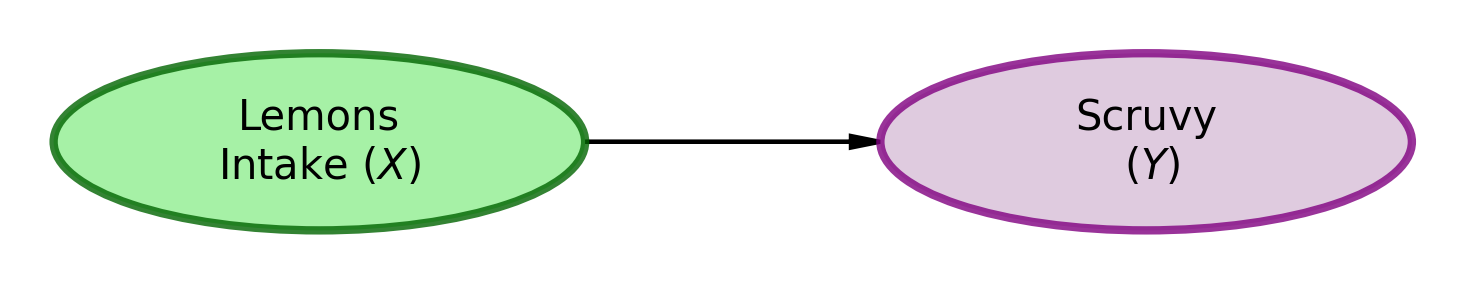
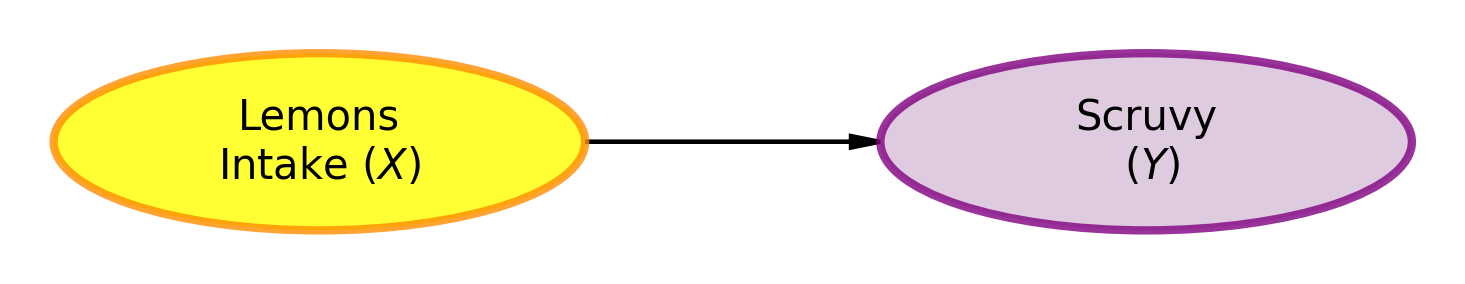
DAFT Package Challenge

Changed region(s): [[0.0307, 0.169, 0.43, 0.8451]]

diff --git a/index.html b/index.html
@@ -205,37 +205,30 @@ Ready to create beautiful DAGs!</code></pre>
 <p><strong>Your Task:</strong> Recreate this DAG showing the relationship between lemons and scurvy prevention.</p>
 <p><strong>Reference Image:</strong> <img src="https://raw.githubusercontent.com/flyaflya/persuasive/642288ea5f79050c05801c3d127084ac0f361a01/images/scurvy2.png" class="img-fluid"></p>
 <div id="cell-dag-1-1747" class="cell" data-execution_count="2">
-<div class="code-copy-outer-scaffold"><div class="sourceCode cell-code" id="cb3"><pre class="sourceCode python code-with-copy"><code class="sourceCode python"><span id="cb3-1"><a href="#cb3-1" aria-hidden="true" tabindex="-1"></a><span class="co"># </span><span class="al">TODO</span><span class="co">: Replace this placeholder with your DAFT code</span></span>
-<span id="cb3-2"><a href="#cb3-2" aria-hidden="true" tabindex="-1"></a><span class="co"># Create a DAG showing the 1747 understanding: Lemons → Scurvy Prevention</span></span>
+<div class="code-copy-outer-scaffold"><div class="sourceCode cell-code" id="cb3"><pre class="sourceCode python code-with-copy"><code class="sourceCode python"><span id="cb3-1"><a href="#cb3-1" aria-hidden="true" tabindex="-1"></a><span class="im">import</span> daft</span>
+<span id="cb3-2"><a href="#cb3-2" aria-hidden="true" tabindex="-1"></a><span class="im">import</span> matplotlib.pyplot <span class="im">as</span> plt</span>
 <span id="cb3-3"><a href="#cb3-3" aria-hidden="true" tabindex="-1"></a></span>
-<span id="cb3-4"><a href="#cb3-4" aria-hidden="true" tabindex="-1"></a><span class="co"># Your code here - recreate the DAG from the reference image</span></span>
-<span id="cb3-5"><a href="#cb3-5" aria-hidden="true" tabindex="-1"></a><span class="co"># Use DAFT to create nodes and edges that match the visual structure</span></span>
-<span id="cb3-6"><a href="#cb3-6" aria-hidden="true" tabindex="-1"></a><span class="co"># Customize colors and styling to make it professional</span></span>
-<span id="cb3-7"><a href="#cb3-7" aria-hidden="true" tabindex="-1"></a></span>
-<span id="cb3-8"><a href="#cb3-8" aria-hidden="true" tabindex="-1"></a><span class="im">import</span> daft</span>
-<span id="cb3-9"><a href="#cb3-9" aria-hidden="true" tabindex="-1"></a><span class="im">import</span> matplotlib.pyplot <span class="im">as</span> plt</span>
-<span id="cb3-10"><a href="#cb3-10" aria-hidden="true" tabindex="-1"></a></span>
-<span id="cb3-11"><a href="#cb3-11" aria-hidden="true" tabindex="-1"></a><span class="co"># Create a PGM object</span></span>
-<span id="cb3-12"><a href="#cb3-12" aria-hidden="true" tabindex="-1"></a>pgm <span class="op">=</span> daft.PGM(dpi<span class="op">=</span><span class="dv">150</span>, alternate_style<span class="op">=</span><span class="st">"outer"</span>)</span>
-<span id="cb3-13"><a href="#cb3-13" aria-hidden="true" tabindex="-1"></a></span>
-<span id="cb3-14"><a href="#cb3-14" aria-hidden="true" tabindex="-1"></a><span class="co"># Example of a professionally styled node</span></span>
-<span id="cb3-15"><a href="#cb3-15" aria-hidden="true" tabindex="-1"></a>pgm.add_node(<span class="st">"Lemons"</span>, <span class="st">"Lemons</span><span class="ch">\n</span><span class="st">Intake"</span> <span class="op">+</span> <span class="vs">r" </span><span class="dv">$</span><span class="kw">(</span><span class="vs">X</span><span class="kw">)</span><span class="dv">$</span><span class="vs">"</span>, <span class="dv">1</span>, <span class="dv">1</span>, aspect <span class="op">=</span> <span class="dv">3</span>, scale <span class="op">=</span> <span class="fl">1.5</span>,</span>
+<span id="cb3-4"><a href="#cb3-4" aria-hidden="true" tabindex="-1"></a><span class="co"># Create a PGM object</span></span>
+<span id="cb3-5"><a href="#cb3-5" aria-hidden="true" tabindex="-1"></a>pgm <span class="op">=</span> daft.PGM(dpi<span class="op">=</span><span class="dv">150</span>, alternate_style<span class="op">=</span><span class="st">"outer"</span>)</span>
+<span id="cb3-6"><a href="#cb3-6" aria-hidden="true" tabindex="-1"></a></span>
+<span id="cb3-7"><a href="#cb3-7" aria-hidden="true" tabindex="-1"></a><span class="co"># Example of a professionally styled node</span></span>
+<span id="cb3-8"><a href="#cb3-8" aria-hidden="true" tabindex="-1"></a>pgm.add_node(<span class="st">"Lemons"</span>, <span class="st">"Lemons</span><span class="ch">\n</span><span class="st">Intake"</span> <span class="op">+</span> <span class="vs">r" </span><span class="dv">$</span><span class="kw">(</span><span class="vs">X</span><span class="kw">)</span><span class="dv">$</span><span class="vs">"</span>, <span class="dv">1</span>, <span class="dv">1</span>, aspect <span class="op">=</span> <span class="dv">3</span>, scale <span class="op">=</span> <span class="fl">1.5</span>,</span>
+<span id="cb3-9"><a href="#cb3-9" aria-hidden="true" tabindex="-1"></a>             plot_params<span class="op">=</span>{</span>
+<span id="cb3-10"><a href="#cb3-10" aria-hidden="true" tabindex="-1"></a>                 <span class="st">'facecolor'</span>: <span class="st">'yellow'</span>, </span>
+<span id="cb3-11"><a href="#cb3-11" aria-hidden="true" tabindex="-1"></a>                 <span class="st">'edgecolor'</span>: <span class="st">'#ff8c00'</span>, </span>
+<span id="cb3-12"><a href="#cb3-12" aria-hidden="true" tabindex="-1"></a>                 <span class="st">'linewidth'</span>: <span class="dv">2</span>,</span>
+<span id="cb3-13"><a href="#cb3-13" aria-hidden="true" tabindex="-1"></a>                 <span class="st">'alpha'</span>: <span class="fl">0.8</span>,</span>
+<span id="cb3-14"><a href="#cb3-14" aria-hidden="true" tabindex="-1"></a>             })</span>
+<span id="cb3-15"><a href="#cb3-15" aria-hidden="true" tabindex="-1"></a>pgm.add_node(<span class="st">"Scruvy"</span>, <span class="st">"Scruvy</span><span class="ch">\n</span><span class="st">"</span><span class="op">+</span><span class="vs">r" </span><span class="dv">$</span><span class="kw">(</span><span class="vs">Y</span><span class="kw">)</span><span class="dv">$</span><span class="vs">"</span>, <span class="fl">4.5</span>, <span class="dv">1</span>, aspect <span class="op">=</span> <span class="dv">3</span>, scale <span class="op">=</span> <span class="fl">1.5</span>,</span>
 <span id="cb3-16"><a href="#cb3-16" aria-hidden="true" tabindex="-1"></a>             plot_params<span class="op">=</span>{</span>
-<span id="cb3-17"><a href="#cb3-17" aria-hidden="true" tabindex="-1"></a>                 <span class="st">'facecolor'</span>: <span class="st">'lightgreen'</span>, </span>
-<span id="cb3-18"><a href="#cb3-18" aria-hidden="true" tabindex="-1"></a>                 <span class="st">'edgecolor'</span>: <span class="st">'darkgreen'</span>, </span>
+<span id="cb3-17"><a href="#cb3-17" aria-hidden="true" tabindex="-1"></a>                 <span class="st">'facecolor'</span>: <span class="st">'thistle'</span>, </span>
+<span id="cb3-18"><a href="#cb3-18" aria-hidden="true" tabindex="-1"></a>                 <span class="st">'edgecolor'</span>: <span class="st">'purple'</span>, </span>
 <span id="cb3-19"><a href="#cb3-19" aria-hidden="true" tabindex="-1"></a>                 <span class="st">'linewidth'</span>: <span class="dv">2</span>,</span>
 <span id="cb3-20"><a href="#cb3-20" aria-hidden="true" tabindex="-1"></a>                 <span class="st">'alpha'</span>: <span class="fl">0.8</span>,</span>
 <span id="cb3-21"><a href="#cb3-21" aria-hidden="true" tabindex="-1"></a>             })</span>
-<span id="cb3-22"><a href="#cb3-22" aria-hidden="true" tabindex="-1"></a>pgm.add_node(<span class="st">"Scruvy"</span>, <span class="st">"Scruvy</span><span class="ch">\n</span><span class="st">"</span><span class="op">+</span><span class="vs">r" </span><span class="dv">$</span><span class="kw">(</span><span class="vs">Y</span><span class="kw">)</span><span class="dv">$</span><span class="vs">"</span>, <span class="fl">4.5</span>, <span class="dv">1</span>, aspect <span class="op">=</span> <span class="dv">3</span>, scale <span class="op">=</span> <span class="fl">1.5</span>,</span>
-<span id="cb3-23"><a href="#cb3-23" aria-hidden="true" tabindex="-1"></a>             plot_params<span class="op">=</span>{</span>
-<span id="cb3-24"><a href="#cb3-24" aria-hidden="true" tabindex="-1"></a>                 <span class="st">'facecolor'</span>: <span class="st">'thistle'</span>, </span>
-<span id="cb3-25"><a href="#cb3-25" aria-hidden="true" tabindex="-1"></a>                 <span class="st">'edgecolor'</span>: <span class="st">'purple'</span>, </span>
-<span id="cb3-26"><a href="#cb3-26" aria-hidden="true" tabindex="-1"></a>                 <span class="st">'linewidth'</span>: <span class="dv">2</span>,</span>
-<span id="cb3-27"><a href="#cb3-27" aria-hidden="true" tabindex="-1"></a>                 <span class="st">'alpha'</span>: <span class="fl">0.8</span>,</span>
-<span id="cb3-28"><a href="#cb3-28" aria-hidden="true" tabindex="-1"></a>             })</span>
-<span id="cb3-29"><a href="#cb3-29" aria-hidden="true" tabindex="-1"></a>pgm.add_edge(<span class="st">"Lemons"</span>, <span class="st">"Scruvy"</span>)</span>
-<span id="cb3-30"><a href="#cb3-30" aria-hidden="true" tabindex="-1"></a></span>
-<span id="cb3-31"><a href="#cb3-31" aria-hidden="true" tabindex="-1"></a>pgm.render()</span></code></pre></div><button title="Copy to Clipboard" class="code-copy-button"><i class="bi"></i></button></div>
+<span id="cb3-22"><a href="#cb3-22" aria-hidden="true" tabindex="-1"></a>pgm.add_edge(<span class="st">"Lemons"</span>, <span class="st">"Scruvy"</span>)</span>
+<span id="cb3-23"><a href="#cb3-23" aria-hidden="true" tabindex="-1"></a></span>
+<span id="cb3-24"><a href="#cb3-24" aria-hidden="true" tabindex="-1"></a>pgm.render()</span></code></pre></div><button title="Copy to Clipboard" class="code-copy-button"><i class="bi"></i></button></div>
 <div class="cell-output cell-output-display">
 <div>
 <figure class="figure">
@@ -264,45 +257,38 @@ Ready to create beautiful DAGs!</code></pre>
 <p><strong>Your Task:</strong> Recreate this DAG showing the incorrect understanding of the data generating process.</p>
 <p><strong>Reference Image:</strong> <img src="https://raw.githubusercontent.com/flyaflya/persuasive/8aaffd0a3c967d0a26f506232f998130847be3e8/images/scurvy.png" class="img-fluid"></p>
 <div id="cell-dag-2-misguided" class="cell" data-execution_count="3">
-<div class="code-copy-outer-scaffold"><div class="sourceCode cell-code" id="cb4"><pre class="sourceCode python code-with-copy"><code class="sourceCode python"><span id="cb4-1"><a href="#cb4-1" aria-hidden="true" tabindex="-1"></a><span class="co"># </span><span class="al">TODO</span><span class="co">: Replace this placeholder with your DAFT code</span></span>
-<span id="cb4-2"><a href="#cb4-2" aria-hidden="true" tabindex="-1"></a><span class="co"># Create a DAG showing the misguided belief: Acid → Bacteria Death → Scurvy Prevention</span></span>
+<div class="code-copy-outer-scaffold"><div class="sourceCode cell-code" id="cb4"><pre class="sourceCode python code-with-copy"><code class="sourceCode python"><span id="cb4-1"><a href="#cb4-1" aria-hidden="true" tabindex="-1"></a><span class="im">import</span> daft</span>
+<span id="cb4-2"><a href="#cb4-2" aria-hidden="true" tabindex="-1"></a><span class="im">import</span> matplotlib.pyplot <span class="im">as</span> plt</span>
 <span id="cb4-3"><a href="#cb4-3" aria-hidden="true" tabindex="-1"></a></span>
-<span id="cb4-4"><a href="#cb4-4" aria-hidden="true" tabindex="-1"></a><span class="co"># Your code here - recreate the DAG from the reference image</span></span>
-<span id="cb4-5"><a href="#cb4-5" aria-hidden="true" tabindex="-1"></a><span class="co"># This DAG should show the incorrect causal chain</span></span>
-<span id="cb4-6"><a href="#cb4-6" aria-hidden="true" tabindex="-1"></a><span class="co"># Use different colors or styling to indicate this is the wrong understanding</span></span>
-<span id="cb4-7"><a href="#cb4-7" aria-hidden="true" tabindex="-1"></a></span>
-<span id="cb4-8"><a href="#cb4-8" aria-hidden="true" tabindex="-1"></a><span class="im">import</span> daft</span>
-<span id="cb4-9"><a href="#cb4-9" aria-hidden="true" tabindex="-1"></a><span class="im">import</span> matplotlib.pyplot <span class="im">as</span> plt</span>
-<span id="cb4-10"><a href="#cb4-10" aria-hidden="true" tabindex="-1"></a></span>
-<span id="cb4-11"><a href="#cb4-11" aria-hidden="true" tabindex="-1"></a><span class="co"># Create a PGM object</span></span>
-<span id="cb4-12"><a href="#cb4-12" aria-hidden="true" tabindex="-1"></a>pgm <span class="op">=</span> daft.PGM(dpi<span class="op">=</span><span class="dv">150</span>, alternate_style<span class="op">=</span><span class="st">"outer"</span>)</span>
-<span id="cb4-13"><a href="#cb4-13" aria-hidden="true" tabindex="-1"></a></span>
-<span id="cb4-14"><a href="#cb4-14" aria-hidden="true" tabindex="-1"></a><span class="co"># Example of a professionally styled node</span></span>
-<span id="cb4-15"><a href="#cb4-15" aria-hidden="true" tabindex="-1"></a>pgm.add_node(<span class="st">"Acid"</span>, <span class="st">"Acid</span><span class="ch">\n</span><span class="st">Intake"</span> <span class="op">+</span> <span class="vs">r" </span><span class="dv">$</span><span class="kw">(</span><span class="vs">X</span><span class="kw">)</span><span class="dv">$</span><span class="vs">"</span>, <span class="fl">2.5</span>, <span class="dv">4</span>, aspect <span class="op">=</span> <span class="dv">3</span>, scale <span class="op">=</span> <span class="fl">1.5</span>,</span>
+<span id="cb4-4"><a href="#cb4-4" aria-hidden="true" tabindex="-1"></a><span class="co"># Create a PGM object</span></span>
+<span id="cb4-5"><a href="#cb4-5" aria-hidden="true" tabindex="-1"></a>pgm <span class="op">=</span> daft.PGM(dpi<span class="op">=</span><span class="dv">150</span>, alternate_style<span class="op">=</span><span class="st">"outer"</span>)</span>
+<span id="cb4-6"><a href="#cb4-6" aria-hidden="true" tabindex="-1"></a></span>
+<span id="cb4-7"><a href="#cb4-7" aria-hidden="true" tabindex="-1"></a><span class="co"># Example of a professionally styled node</span></span>
+<span id="cb4-8"><a href="#cb4-8" aria-hidden="true" tabindex="-1"></a>pgm.add_node(<span class="st">"Acid"</span>, <span class="st">"Acid</span><span class="ch">\n</span><span class="st">Intake"</span> <span class="op">+</span> <span class="vs">r" </span><span class="dv">$</span><span class="kw">(</span><span class="vs">X</span><span class="kw">)</span><span class="dv">$</span><span class="vs">"</span>, <span class="fl">2.5</span>, <span class="dv">4</span>, aspect <span class="op">=</span> <span class="dv">3</span>, scale <span class="op">=</span> <span class="fl">1.5</span>,</span>
+<span id="cb4-9"><a href="#cb4-9" aria-hidden="true" tabindex="-1"></a>             plot_params<span class="op">=</span>{</span>
+<span id="cb4-10"><a href="#cb4-10" aria-hidden="true" tabindex="-1"></a>                 <span class="st">'facecolor'</span>: <span class="st">'orange'</span>, </span>
+<span id="cb4-11"><a href="#cb4-11" aria-hidden="true" tabindex="-1"></a>                 <span class="st">'edgecolor'</span>: <span class="st">'#ff6600'</span>, </span>
+<span id="cb4-12"><a href="#cb4-12" aria-hidden="true" tabindex="-1"></a>                 <span class="st">'linewidth'</span>: <span class="dv">2</span>,</span>
+<span id="cb4-13"><a href="#cb4-13" aria-hidden="true" tabindex="-1"></a>                 <span class="st">'alpha'</span>: <span class="fl">0.8</span>,</span>
+<span id="cb4-14"><a href="#cb4-14" aria-hidden="true" tabindex="-1"></a>             })</span>
+<span id="cb4-15"><a href="#cb4-15" aria-hidden="true" tabindex="-1"></a>pgm.add_node(<span class="st">"Bacteria_in_food"</span>, <span class="st">"Bacteria in Food</span><span class="ch">\n</span><span class="st">"</span><span class="op">+</span><span class="vs">r" </span><span class="dv">$</span><span class="kw">(</span><span class="vs">Y</span><span class="kw">)</span><span class="dv">$</span><span class="vs">"</span>, <span class="fl">2.5</span>, <span class="fl">2.5</span>, aspect <span class="op">=</span> <span class="dv">3</span>, scale <span class="op">=</span> <span class="fl">1.5</span>,</span>
 <span id="cb4-16"><a href="#cb4-16" aria-hidden="true" tabindex="-1"></a>             plot_params<span class="op">=</span>{</span>
-<span id="cb4-17"><a href="#cb4-17" aria-hidden="true" tabindex="-1"></a>                 <span class="st">'facecolor'</span>: <span class="st">'lightgreen'</span>, </span>
-<span id="cb4-18"><a href="#cb4-18" aria-hidden="true" tabindex="-1"></a>                 <span class="st">'edgecolor'</span>: <span class="st">'darkgreen'</span>, </span>
+<span id="cb4-17"><a href="#cb4-17" aria-hidden="true" tabindex="-1"></a>                 <span class="st">'facecolor'</span>: <span class="st">'lightcoral'</span>, </span>
+<span id="cb4-18"><a href="#cb4-18" aria-hidden="true" tabindex="-1"></a>                 <span class="st">'edgecolor'</span>: <span class="st">'darkred'</span>, </span>
 <span id="cb4-19"><a href="#cb4-19" aria-hidden="true" tabindex="-1"></a>                 <span class="st">'linewidth'</span>: <span class="dv">2</span>,</span>
 <span id="cb4-20"><a href="#cb4-20" aria-hidden="true" tabindex="-1"></a>                 <span class="st">'alpha'</span>: <span class="fl">0.8</span>,</span>
 <span id="cb4-21"><a href="#cb4-21" aria-hidden="true" tabindex="-1"></a>             })</span>
-<span id="cb4-22"><a href="#cb4-22" aria-hidden="true" tabindex="-1"></a>pgm.add_node(<span class="st">"Bacteria_in_food"</span>, <span class="st">"Bacteria in Food</span><span class="ch">\n</span><span class="st">"</span><span class="op">+</span><span class="vs">r" </span><span class="dv">$</span><span class="kw">(</span><span class="vs">Y</span><span class="kw">)</span><span class="dv">$</span><span class="vs">"</span>, <span class="fl">2.5</span>, <span class="fl">2.5</span>, aspect <span class="op">=</span> <span class="dv">3</span>, scale <span class="op">=</span> <span class="fl">1.5</span>,</span>
+<span id="cb4-22"><a href="#cb4-22" aria-hidden="true" tabindex="-1"></a>pgm.add_node(<span class="st">"Scurvy"</span>, <span class="st">"Get Scruvy</span><span class="ch">\n</span><span class="st">"</span><span class="op">+</span><span class="vs">r" </span><span class="dv">$</span><span class="kw">(</span><span class="vs">Z</span><span class="kw">)</span><span class="dv">$</span><span class="vs">"</span>, <span class="fl">2.5</span>, <span class="dv">1</span>, aspect <span class="op">=</span> <span class="dv">3</span>, scale <span class="op">=</span> <span class="fl">1.5</span>,</span>
 <span id="cb4-23"><a href="#cb4-23" aria-hidden="true" tabindex="-1"></a>             plot_params<span class="op">=</span>{</span>
-<span id="cb4-24"><a href="#cb4-24" aria-hidden="true" tabindex="-1"></a>                 <span class="st">'facecolor'</span>: <span class="st">'lightcoral'</span>, </span>
-<span id="cb4-25"><a href="#cb4-25" aria-hidden="true" tabindex="-1"></a>                 <span class="st">'edgecolor'</span>: <span class="st">'darkred'</span>, </span>
+<span id="cb4-24"><a href="#cb4-24" aria-hidden="true" tabindex="-1"></a>                 <span class="st">'facecolor'</span>: <span class="st">'thistle'</span>, </span>
+<span id="cb4-25"><a href="#cb4-25" aria-hidden="true" tabindex="-1"></a>                 <span class="st">'edgecolor'</span>: <span class="st">'purple'</span>, </span>
 <span id="cb4-26"><a href="#cb4-26" aria-hidden="true" tabindex="-1"></a>                 <span class="st">'linewidth'</span>: <span class="dv">2</span>,</span>
 <span id="cb4-27"><a href="#cb4-27" aria-hidden="true" tabindex="-1"></a>                 <span class="st">'alpha'</span>: <span class="fl">0.8</span>,</span>
-<span id="cb4-28"><a href="#cb4-28" aria-hidden="true" tabindex="-1"></a>             })</span>
-<span id="cb4-29"><a href="#cb4-29" aria-hidden="true" tabindex="-1"></a>pgm.add_node(<span class="st">"Scurvy"</span>, <span class="st">"Get Scruvy</span><span class="ch">\n</span><span class="st">"</span><span class="op">+</span><span class="vs">r" </span><span class="dv">$</span><span class="kw">(</span><span class="vs">Z</span><span class="kw">)</span><span class="dv">$</span><span class="vs">"</span>, <span class="fl">2.5</span>, <span class="dv">1</span>, aspect <span class="op">=</span> <span class="dv">3</span>, scale <span class="op">=</span> <span class="fl">1.5</span>,</span>
-<span id="cb4-30"><a href="#cb4-30" aria-hidden="true" tabindex="-1"></a>             plot_params<span class="op">=</span>{</span>
-<span id="cb4-31"><a href="#cb4-31" aria-hidden="true" tabindex="-1"></a>                 <span class="st">'facecolor'</span>: <span class="st">'thistle'</span>, </span>
-<span id="cb4-32"><a href="#cb4-32" aria-hidden="true" tabindex="-1"></a>                 <span class="st">'edgecolor'</span>: <span class="st">'purple'</span>, </span>
-<span id="cb4-33"><a href="#cb4-33" aria-hidden="true" tabindex="-1"></a>                 <span class="st">'linewidth'</span>: <span class="dv">2</span>,</span>
-<span id="cb4-34"><a href="#cb4-34" aria-hidden="true" tabindex="-1"></a>                 <span class="st">'alpha'</span>: <span class="fl">0.8</span>,</span>
-<span id="cb4-35"><a href="#cb4-35" aria-hidden="true" tabindex="-1"></a>             })             </span>
-<span id="cb4-36"><a href="#cb4-36" aria-hidden="true" tabindex="-1"></a>pgm.add_edge(<span class="st">"Acid"</span>, <span class="st">"Bacteria_in_food"</span>)</span>
-<span id="cb4-37"><a href="#cb4-37" aria-hidden="true" tabindex="-1"></a>pgm.add_edge(<span class="st">"Bacteria_in_food"</span>, <span class="st">"Scurvy"</span>)</span>
-<span id="cb4-38"><a href="#cb4-38" aria-hidden="true" tabindex="-1"></a></span>
-<span id="cb4-39"><a href="#cb4-39" aria-hidden="true" tabindex="-1"></a>pgm.render()</span></code></pre></div><button title="Copy to Clipboard" class="code-copy-button"><i class="bi"></i></button></div>
+<span id="cb4-28"><a href="#cb4-28" aria-hidden="true" tabindex="-1"></a>             })             </span>
+<span id="cb4-29"><a href="#cb4-29" aria-hidden="true" tabindex="-1"></a>pgm.add_edge(<span class="st">"Acid"</span>, <span class="st">"Bacteria_in_food"</span>)</span>
+<span id="cb4-30"><a href="#cb4-30" aria-hidden="true" tabindex="-1"></a>pgm.add_edge(<span class="st">"Bacteria_in_food"</span>, <span class="st">"Scurvy"</span>)</span>
+<span id="cb4-31"><a href="#cb4-31" aria-hidden="true" tabindex="-1"></a></span>
+<span id="cb4-32"><a href="#cb4-32" aria-hidden="true" tabindex="-1"></a>pgm.render()</span></code></pre></div><button title="Copy to Clipboard" class="code-copy-button"><i class="bi"></i></button></div>
 <div class="cell-output cell-output-display">
 <div>
 <figure class="figure">
@@ -331,45 +317,38 @@ Ready to create beautiful DAGs!</code></pre>
 <p><strong>Your Task:</strong> Recreate this DAG showing the complete and correct understanding of the scurvy data generating process.</p>
 <p><strong>Reference Image:</strong> <img src="https://raw.githubusercontent.com/flyaflya/persuasive/main/images/scurvy3.png" class="img-fluid"></p>
 <div id="cell-dag-3-1928" class="cell" data-execution_count="4">
-<div class="code-copy-outer-scaffold"><div class="sourceCode cell-code" id="cb5"><pre class="sourceCode python code-with-copy"><code class="sourceCode python"><span id="cb5-1"><a href="#cb5-1" aria-hidden="true" tabindex="-1"></a><span class="co"># </span><span class="al">TODO</span><span class="co">: Replace this placeholder with your DAFT code</span></span>
-<span id="cb5-2"><a href="#cb5-2" aria-hidden="true" tabindex="-1"></a><span class="co"># Create a DAG showing the 1928 understanding: Vitamin C → Scurvy Prevention</span></span>
+<div class="code-copy-outer-scaffold"><div class="sourceCode cell-code" id="cb5"><pre class="sourceCode python code-with-copy"><code class="sourceCode python"><span id="cb5-1"><a href="#cb5-1" aria-hidden="true" tabindex="-1"></a><span class="im">import</span> daft</span>
+<span id="cb5-2"><a href="#cb5-2" aria-hidden="true" tabindex="-1"></a><span class="im">import</span> matplotlib.pyplot <span class="im">as</span> plt</span>
 <span id="cb5-3"><a href="#cb5-3" aria-hidden="true" tabindex="-1"></a></span>
-<span id="cb5-4"><a href="#cb5-4" aria-hidden="true" tabindex="-1"></a><span class="co"># Your code here - recreate the DAG from the reference image</span></span>
-<span id="cb5-5"><a href="#cb5-5" aria-hidden="true" tabindex="-1"></a><span class="co"># This should be the most complete and accurate representation</span></span>
-<span id="cb5-6"><a href="#cb5-6" aria-hidden="true" tabindex="-1"></a><span class="co"># Use professional styling that would be suitable for a scientific publication</span></span>
-<span id="cb5-7"><a href="#cb5-7" aria-hidden="true" tabindex="-1"></a></span>
-<span id="cb5-8"><a href="#cb5-8" aria-hidden="true" tabindex="-1"></a><span class="im">import</span> daft</span>
-<span id="cb5-9"><a href="#cb5-9" aria-hidden="true" tabindex="-1"></a><span class="im">import</span> matplotlib.pyplot <span class="im">as</span> plt</span>
-<span id="cb5-10"><a href="#cb5-10" aria-hidden="true" tabindex="-1"></a></span>
-<span id="cb5-11"><a href="#cb5-11" aria-hidden="true" tabindex="-1"></a><span class="co"># Create a PGM object</span></span>
-<span id="cb5-12"><a href="#cb5-12" aria-hidden="true" tabindex="-1"></a>pgm <span class="op">=</span> daft.PGM(dpi<span class="op">=</span><span class="dv">150</span>, alternate_style<span class="op">=</span><span class="st">"outer"</span>)</span>
-<span id="cb5-13"><a href="#cb5-13" aria-hidden="true" tabindex="-1"></a></span>
-<span id="cb5-14"><a href="#cb5-14" aria-hidden="true" tabindex="-1"></a><span class="co"># Example of a professionally styled node</span></span>
-<span id="cb5-15"><a href="#cb5-15" aria-hidden="true" tabindex="-1"></a>pgm.add_node(<span class="st">"Vitamin_C"</span>, <span class="st">"Vitamin C</span><span class="ch">\n</span><span class="st">Intake"</span> <span class="op">+</span> <span class="vs">r" </span><span class="dv">$</span><span class="kw">(</span><span class="vs">X</span><span class="kw">)</span><span class="dv">$</span><span class="vs">"</span>, <span class="fl">2.5</span>, <span class="dv">4</span>, aspect <span class="op">=</span> <span class="dv">3</span>, scale <span class="op">=</span> <span class="fl">1.5</span>,</span>
+<span id="cb5-4"><a href="#cb5-4" aria-hidden="true" tabindex="-1"></a><span class="co"># Create a PGM object</span></span>
+<span id="cb5-5"><a href="#cb5-5" aria-hidden="true" tabindex="-1"></a>pgm <span class="op">=</span> daft.PGM(dpi<span class="op">=</span><span class="dv">150</span>, alternate_style<span class="op">=</span><span class="st">"outer"</span>)</span>
+<span id="cb5-6"><a href="#cb5-6" aria-hidden="true" tabindex="-1"></a></span>
+<span id="cb5-7"><a href="#cb5-7" aria-hidden="true" tabindex="-1"></a><span class="co"># Example of a professionally styled node</span></span>
+<span id="cb5-8"><a href="#cb5-8" aria-hidden="true" tabindex="-1"></a>pgm.add_node(<span class="st">"Vitamin_C"</span>, <span class="st">"Vitamin C</span><span class="ch">\n</span><span class="st">Intake"</span> <span class="op">+</span> <span class="vs">r" </span><span class="dv">$</span><span class="kw">(</span><span class="vs">X</span><span class="kw">)</span><span class="dv">$</span><span class="vs">"</span>, <span class="fl">2.5</span>, <span class="dv">4</span>, aspect <span class="op">=</span> <span class="dv">3</span>, scale <span class="op">=</span> <span class="fl">1.5</span>,</span>
+<span id="cb5-9"><a href="#cb5-9" aria-hidden="true" tabindex="-1"></a>             plot_params<span class="op">=</span>{</span>
+<span id="cb5-10"><a href="#cb5-10" aria-hidden="true" tabindex="-1"></a>                 <span class="st">'facecolor'</span>: <span class="st">'palegoldenrod'</span>, </span>
+<span id="cb5-11"><a href="#cb5-11" aria-hidden="true" tabindex="-1"></a>                 <span class="st">'edgecolor'</span>: <span class="st">'#daa520'</span>, </span>
+<span id="cb5-12"><a href="#cb5-12" aria-hidden="true" tabindex="-1"></a>                 <span class="st">'linewidth'</span>: <span class="dv">2</span>,</span>
+<span id="cb5-13"><a href="#cb5-13" aria-hidden="true" tabindex="-1"></a>                 <span class="st">'alpha'</span>: <span class="fl">0.8</span>,</span>
+<span id="cb5-14"><a href="#cb5-14" aria-hidden="true" tabindex="-1"></a>             })</span>
+<span id="cb5-15"><a href="#cb5-15" aria-hidden="true" tabindex="-1"></a>pgm.add_node(<span class="st">"Collagen_Synthesis"</span>, <span class="st">"Collagen Synthesis</span><span class="ch">\n</span><span class="st">"</span><span class="op">+</span><span class="vs">r" </span><span class="dv">$</span><span class="kw">(</span><span class="vs">Y</span><span class="kw">)</span><span class="dv">$</span><span class="vs">"</span>, <span class="fl">2.5</span>, <span class="fl">2.5</span>, aspect <span class="op">=</span> <span class="dv">3</span>, scale <span class="op">=</span> <span class="fl">1.5</span>,</span>
 <span id="cb5-16"><a href="#cb5-16" aria-hidden="true" tabindex="-1"></a>             plot_params<span class="op">=</span>{</span>
 <span id="cb5-17"><a href="#cb5-17" aria-hidden="true" tabindex="-1"></a>                 <span class="st">'facecolor'</span>: <span class="st">'lightblue'</span>, </span>
 <span id="cb5-18"><a href="#cb5-18" aria-hidden="true" tabindex="-1"></a>                 <span class="st">'edgecolor'</span>: <span class="st">'darkblue'</span>, </span>
 <span id="cb5-19"><a href="#cb5-19" aria-hidden="true" tabindex="-1"></a>                 <span class="st">'linewidth'</span>: <span class="dv">2</span>,</span>
 <span id="cb5-20"><a href="#cb5-20" aria-hidden="true" tabindex="-1"></a>                 <span class="st">'alpha'</span>: <span class="fl">0.8</span>,</span>
 <span id="cb5-21"><a href="#cb5-21" aria-hidden="true" tabindex="-1"></a>             })</span>
-<span id="cb5-22"><a href="#cb5-22" aria-hidden="true" tabindex="-1"></a>pgm.add_node(<span class="st">"Collagen_Synthesis"</span>, <span class="st">"Collagen Synthesis</span><span class="ch">\n</span><span class="st">"</span><span class="op">+</span><span class="vs">r" </span><span class="dv">$</span><span class="kw">(</span><span class="vs">Y</span><span class="kw">)</span><span class="dv">$</span><span class="vs">"</span>, <span class="fl">2.5</span>, <span class="fl">2.5</span>, aspect <span class="op">=</span> <span class="dv">3</span>, scale <span class="op">=</span> <span class="fl">1.5</span>,</span>
+<span id="cb5-22"><a href="#cb5-22" aria-hidden="true" tabindex="-1"></a>pgm.add_node(<span class="st">"Scurvy"</span>, <span class="st">"No Scruvy</span><span class="ch">\n</span><span class="st">"</span><span class="op">+</span><span class="vs">r" </span><span class="dv">$</span><span class="kw">(</span><span class="vs">Z</span><span class="kw">)</span><span class="dv">$</span><span class="vs">"</span>, <span class="fl">2.5</span>, <span class="dv">1</span>, aspect <span class="op">=</span> <span class="dv">3</span>, scale <span class="op">=</span> <span class="fl">1.5</span>,</span>
 <span id="cb5-23"><a href="#cb5-23" aria-hidden="true" tabindex="-1"></a>             plot_params<span class="op">=</span>{</span>
-<span id="cb5-24"><a href="#cb5-24" aria-hidden="true" tabindex="-1"></a>                 <span class="st">'facecolor'</span>: <span class="st">'lightcoral'</span>, </span>
-<span id="cb5-25"><a href="#cb5-25" aria-hidden="true" tabindex="-1"></a>                 <span class="st">'edgecolor'</span>: <span class="st">'darkred'</span>, </span>
+<span id="cb5-24"><a href="#cb5-24" aria-hidden="true" tabindex="-1"></a>                 <span class="st">'facecolor'</span>: <span class="st">'plum'</span>, </span>
+<span id="cb5-25"><a href="#cb5-25" aria-hidden="true" tabindex="-1"></a>                 <span class="st">'edgecolor'</span>: <span class="st">'purple'</span>, </span>
 <span id="cb5-26"><a href="#cb5-26" aria-hidden="true" tabindex="-1"></a>                 <span class="st">'linewidth'</span>: <span class="dv">2</span>,</span>
 <span id="cb5-27"><a href="#cb5-27" aria-hidden="true" tabindex="-1"></a>                 <span class="st">'alpha'</span>: <span class="fl">0.8</span>,</span>
-<span id="cb5-28"><a href="#cb5-28" aria-hidden="true" tabindex="-1"></a>             })</span>
-<span id="cb5-29"><a href="#cb5-29" aria-hidden="true" tabindex="-1"></a>pgm.add_node(<span class="st">"Scurvy"</span>, <span class="st">"No Scruvy</span><span class="ch">\n</span><span class="st">"</span><span class="op">+</span><span class="vs">r" </span><span class="dv">$</span><span class="kw">(</span><span class="vs">Z</span><span class="kw">)</span><span class="dv">$</span><span class="vs">"</span>, <span class="fl">2.5</span>, <span class="dv">1</span>, aspect <span class="op">=</span> <span class="dv">3</span>, scale <span class="op">=</span> <span class="fl">1.5</span>,</span>
-<span id="cb5-30"><a href="#cb5-30" aria-hidden="true" tabindex="-1"></a>             plot_params<span class="op">=</span>{</span>
-<span id="cb5-31"><a href="#cb5-31" aria-hidden="true" tabindex="-1"></a>                 <span class="st">'facecolor'</span>: <span class="st">'lightgreen'</span>, </span>
-<span id="cb5-32"><a href="#cb5-32" aria-hidden="true" tabindex="-1"></a>                 <span class="st">'edgecolor'</span>: <span class="st">'darkgreen'</span>, </span>
-<span id="cb5-33"><a href="#cb5-33" aria-hidden="true" tabindex="-1"></a>                 <span class="st">'linewidth'</span>: <span class="dv">2</span>,</span>
-<span id="cb5-34"><a href="#cb5-34" aria-hidden="true" tabindex="-1"></a>                 <span class="st">'alpha'</span>: <span class="fl">0.8</span>,</span>
-<span id="cb5-35"><a href="#cb5-35" aria-hidden="true" tabindex="-1"></a>             })             </span>
-<span id="cb5-36"><a href="#cb5-36" aria-hidden="true" tabindex="-1"></a>pgm.add_edge(<span class="st">"Vitamin_C"</span>, <span class="st">"Collagen_Synthesis"</span>)</span>
-<span id="cb5-37"><a href="#cb5-37" aria-hidden="true" tabindex="-1"></a>pgm.add_edge(<span class="st">"Collagen_Synthesis"</span>, <span class="st">"Scurvy"</span>)</span>
-<span id="cb5-38"><a href="#cb5-38" aria-hidden="true" tabindex="-1"></a></span>
-<span id="cb5-39"><a href="#cb5-39" aria-hidden="true" tabindex="-1"></a>pgm.render()</span></code></pre></div><button title="Copy to Clipboard" class="code-copy-button"><i class="bi"></i></button></div>
+<span id="cb5-28"><a href="#cb5-28" aria-hidden="true" tabindex="-1"></a>             })             </span>
+<span id="cb5-29"><a href="#cb5-29" aria-hidden="true" tabindex="-1"></a>pgm.add_edge(<span class="st">"Vitamin_C"</span>, <span class="st">"Collagen_Synthesis"</span>)</span>
+<span id="cb5-30"><a href="#cb5-30" aria-hidden="true" tabindex="-1"></a>pgm.add_edge(<span class="st">"Collagen_Synthesis"</span>, <span class="st">"Scurvy"</span>)</span>
+<span id="cb5-31"><a href="#cb5-31" aria-hidden="true" tabindex="-1"></a></span>
+<span id="cb5-32"><a href="#cb5-32" aria-hidden="true" tabindex="-1"></a>pgm.render()</span></code></pre></div><button title="Copy to Clipboard" class="code-copy-button"><i class="bi"></i></button></div>
 <div class="cell-output cell-output-display">
 <div>
 <figure class="figure">
